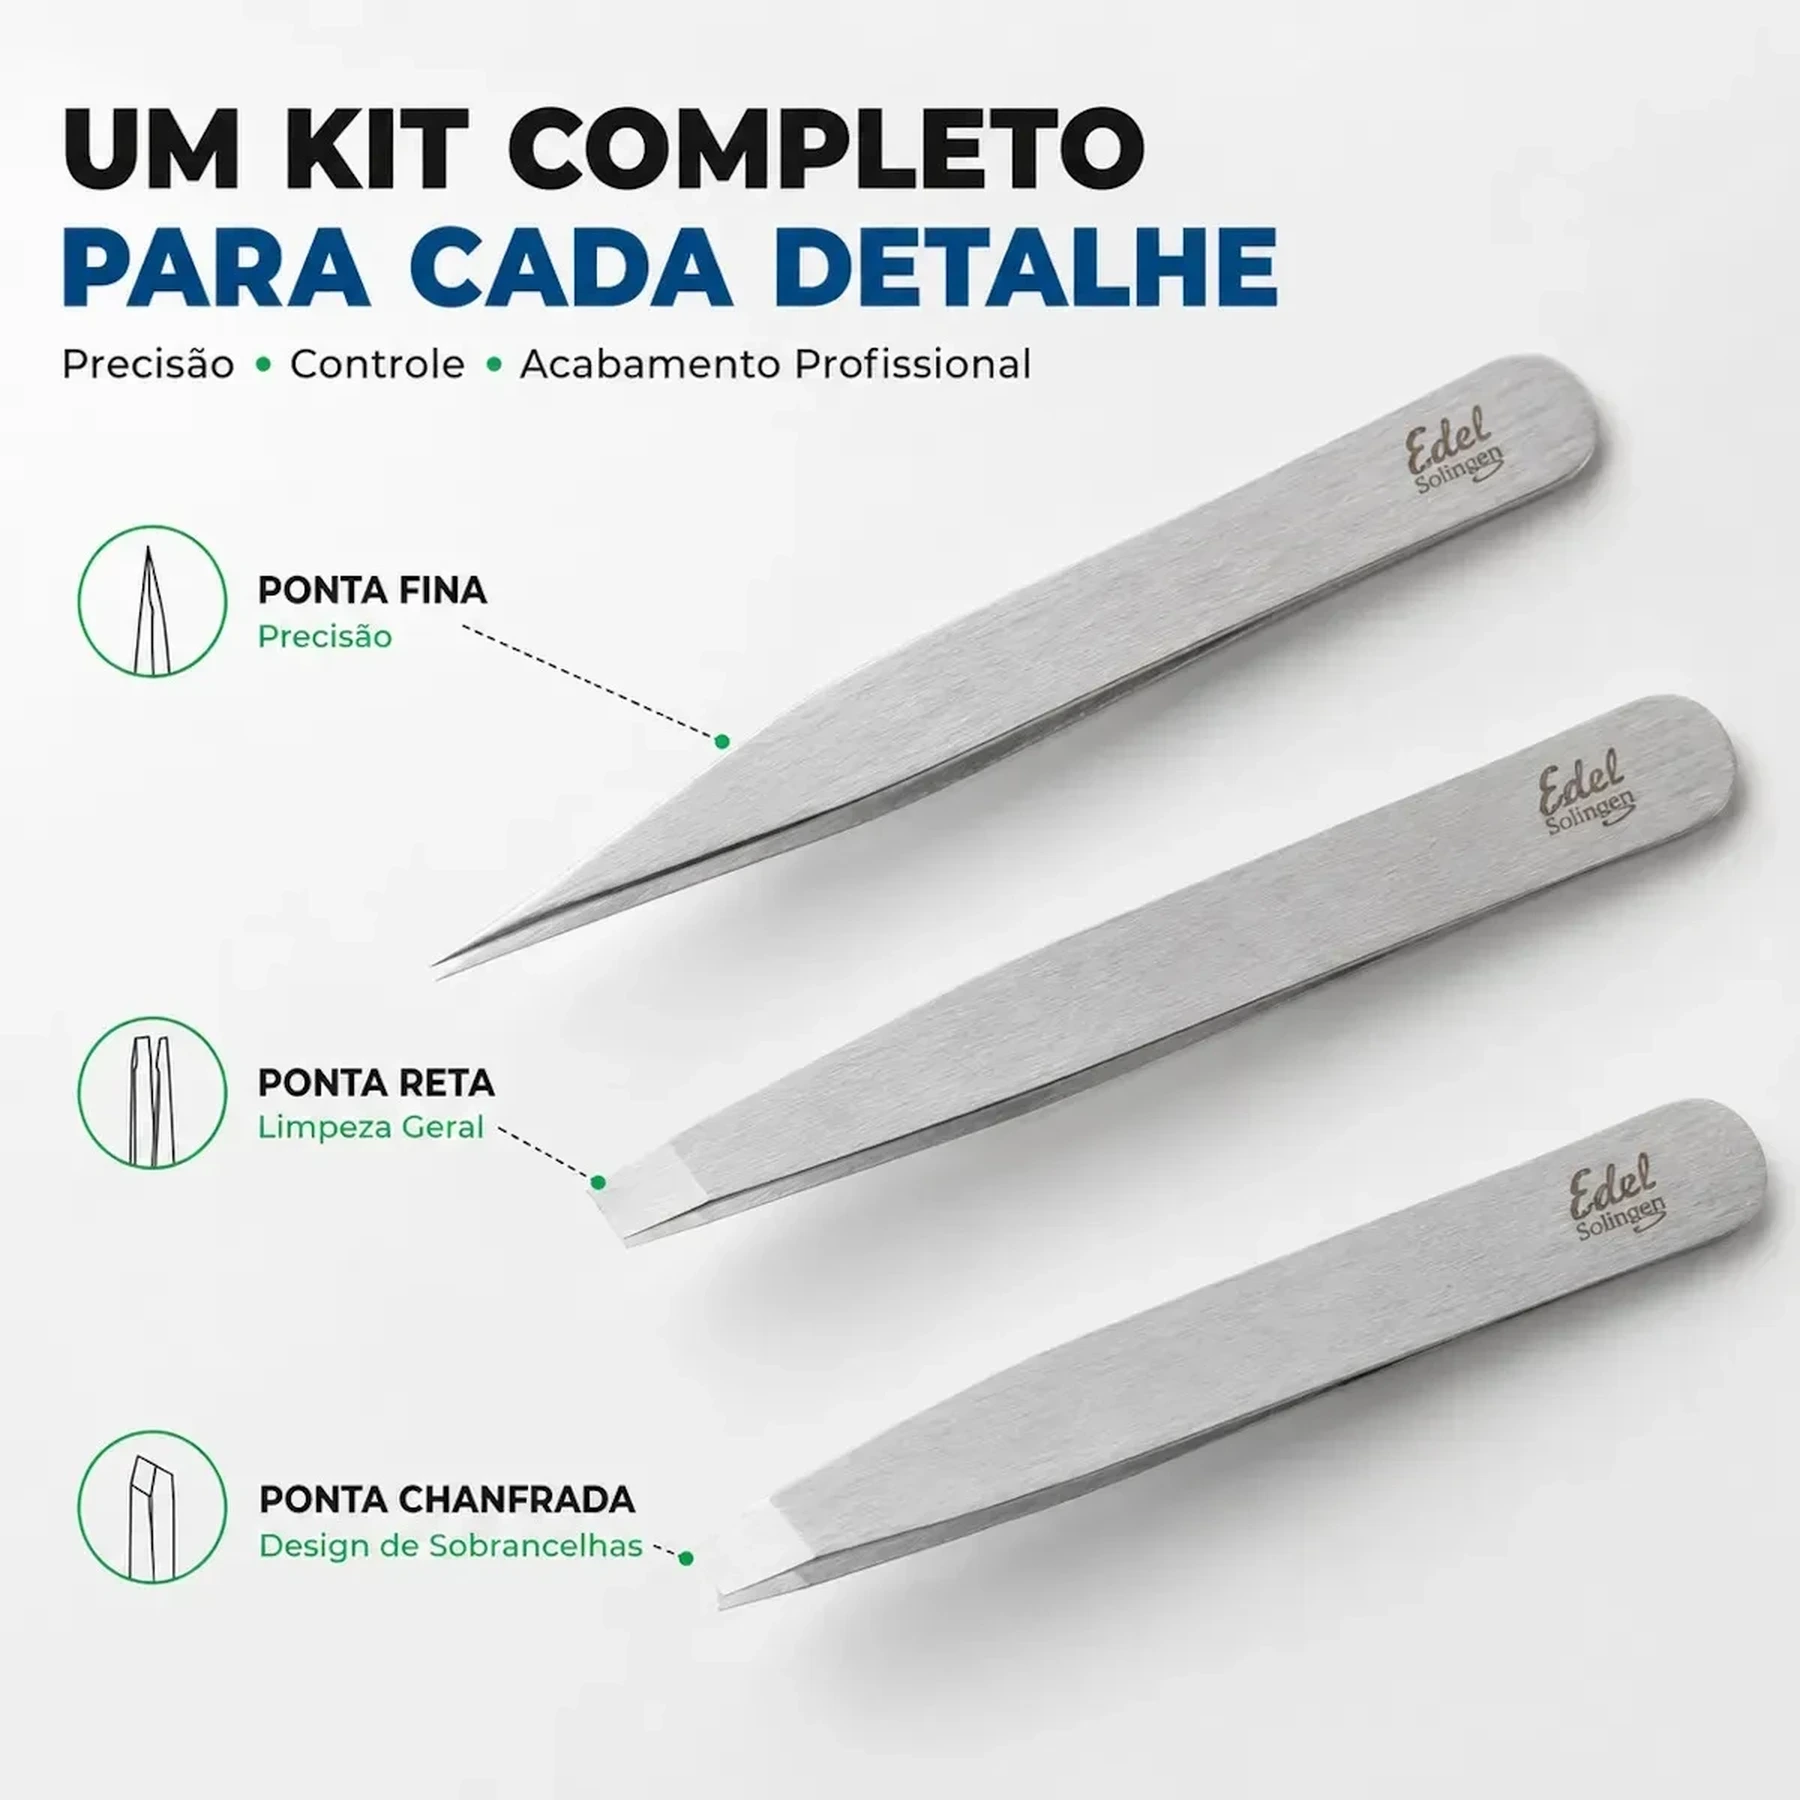
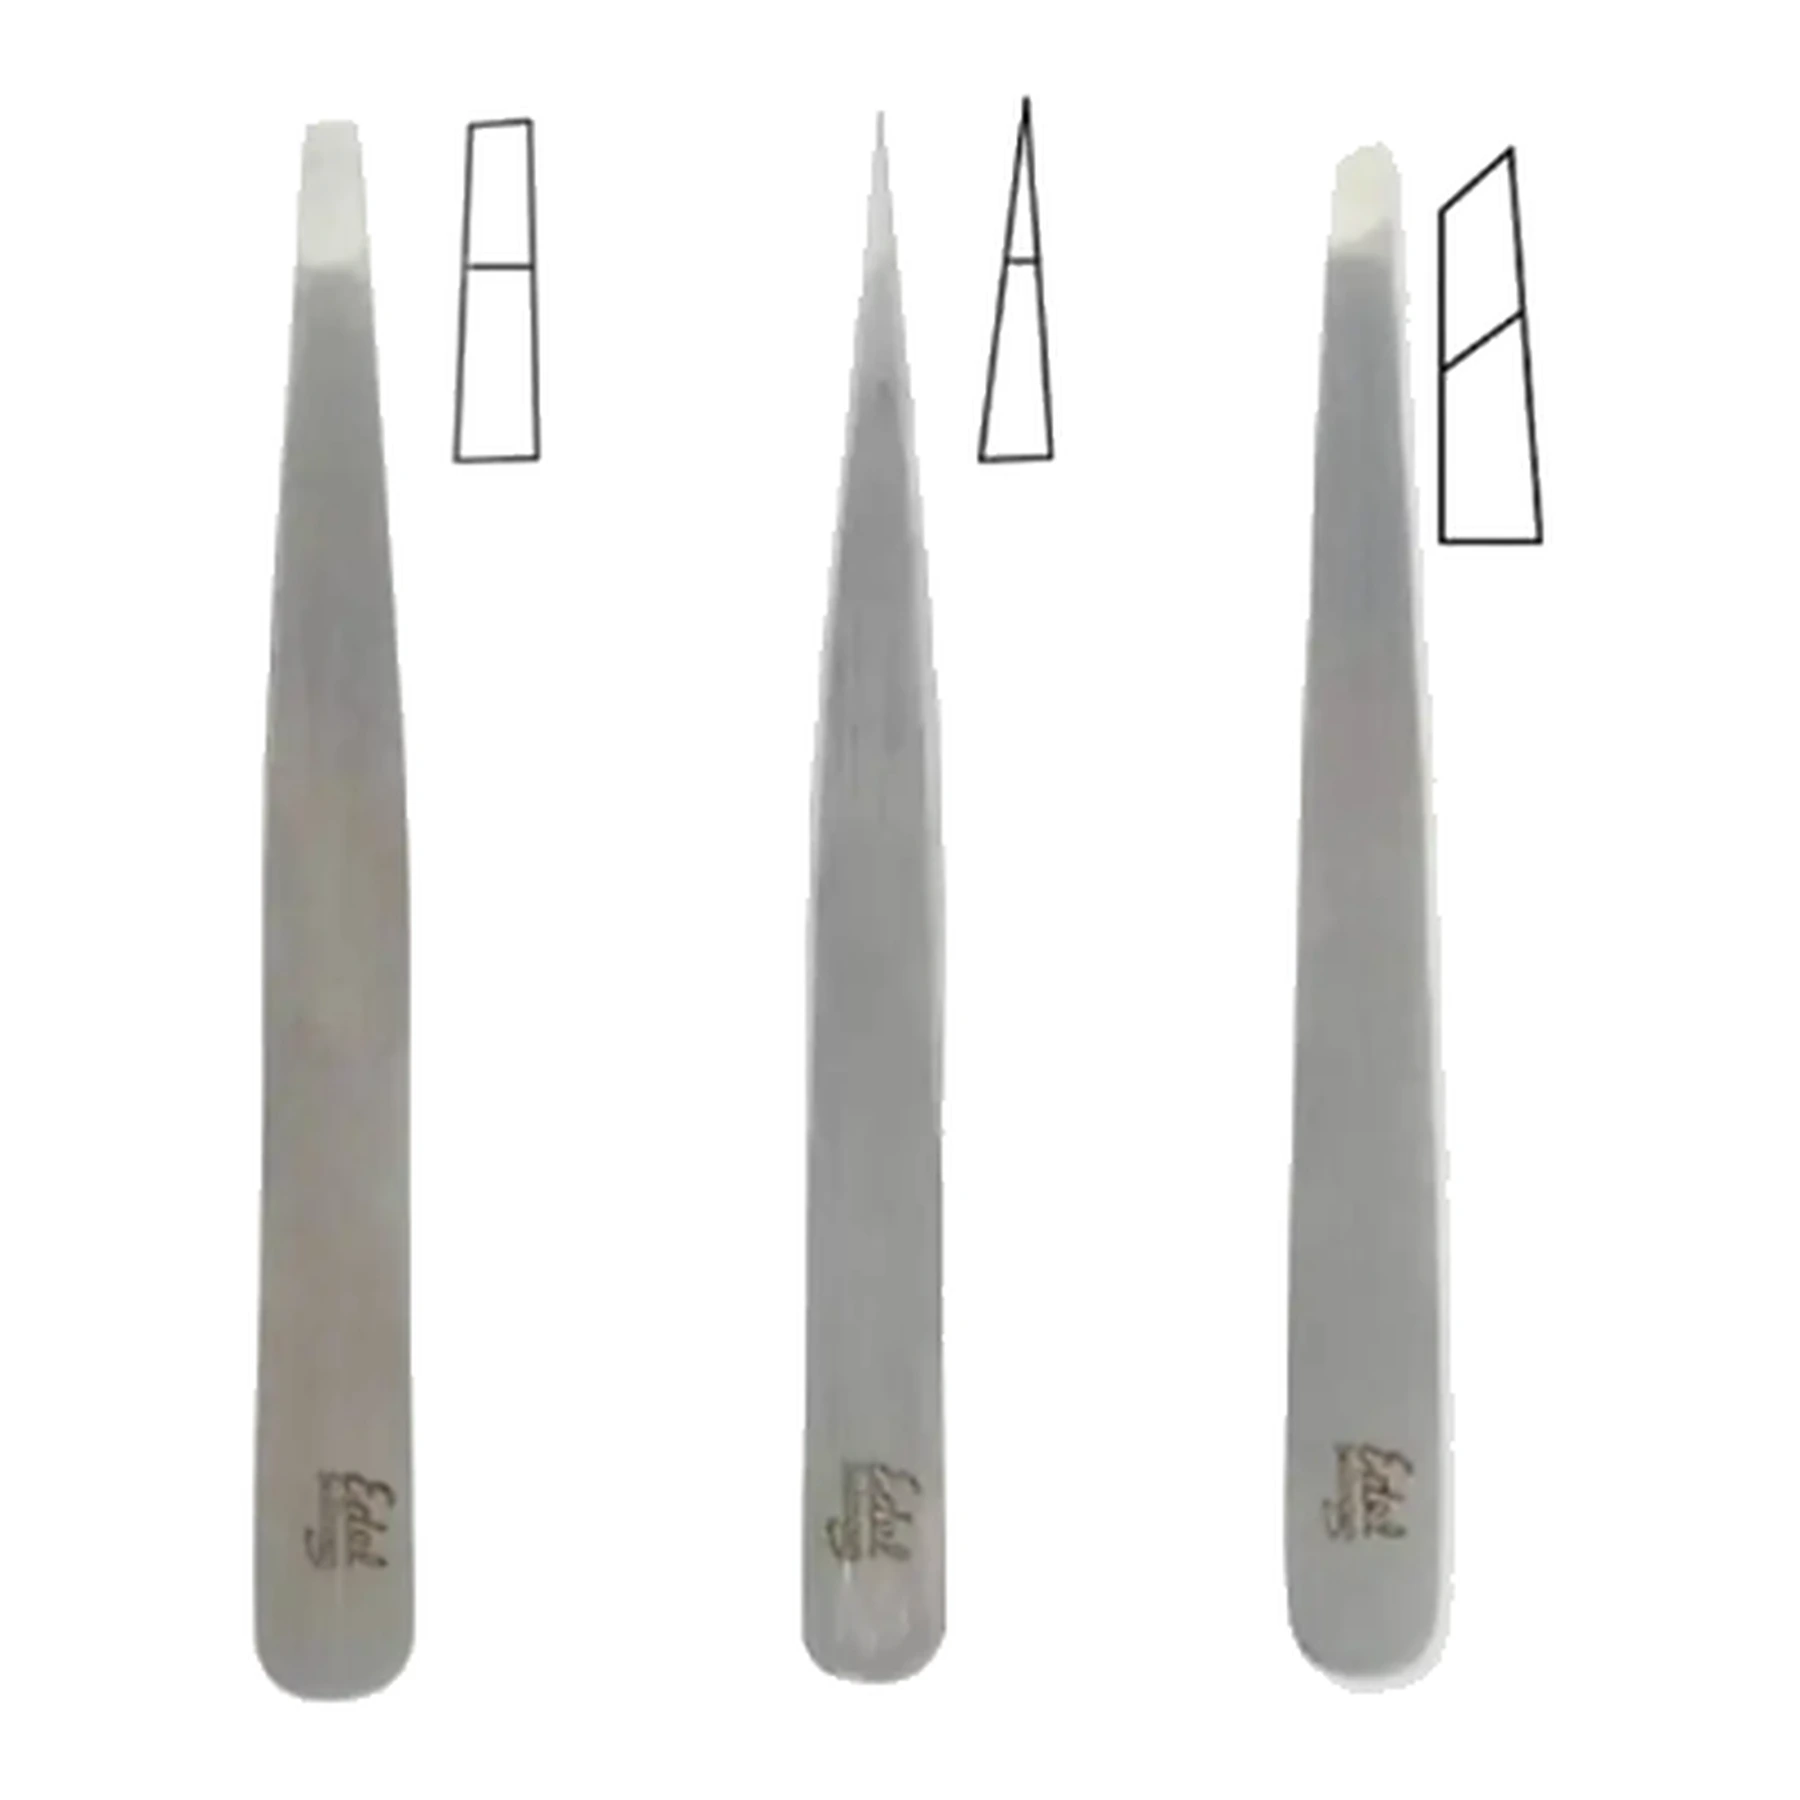
Corrige links de marketplace trocados e adiciona ML aos hidratantes labiais
Corrige a troca de links de Shopee entre o Kit 3 Pinças Laqueadas e o
Kit Pinça Depilação 9cm (estavam com o ID do anúncio um do outro).
Adiciona o link de Mercado Livre ao Milk Shake de Morango e ao
Chocomenta Subzero (hidratantes labiais), que antes só tinham um botão
de Shopee placeholder. Adiciona uma nova foto de capa (tipos de ponta)
ao Kit 3 Pinças Ponta Fina Sobrancelha, reordenando a galeria para
trazê-la como primeira imagem.

Claude-Session: https://claude.ai/code/session_01PUoiHjDweJQQzRfrXd1B8Y

diff --git a/src/data/products.ts b/src/data/products.ts
@@ -283,7 +283,12 @@ export const products: Product[] = [
     ],
     externalUrl: "#",
     isBestSeller: true,
-    buyButtonLabel: "Veja na Shopee",
+    marketplaceLinks: [
+      {
+        label: "Ver no Mercado Livre",
+        url: "https://produto.mercadolivre.com.br/MLB-7702055106-hidratante-labial-enaldinho-chocomenta-subzero-10g-_JM",
+      },
+    ],
   },
   {
     id: "19",
@@ -315,7 +320,12 @@ export const products: Product[] = [
     ],
     externalUrl: "#",
     isBestSeller: true,
-    buyButtonLabel: "Veja na Shopee",
+    marketplaceLinks: [
+      {
+        label: "Ver no Mercado Livre",
+        url: "https://produto.mercadolivre.com.br/MLB-7701912788-hidratante-labial-enaldinho-milk-shake-de-morango-10g-_JM",
+      },
+    ],
   },
   {
     id: "20",
@@ -533,7 +543,7 @@ export const products: Product[] = [
       },
       {
         label: "Ver na Shopee",
-        url: "https://shopee.com.br/product/1931210934/58219012276",
+        url: "https://shopee.com.br/product/1931210934/58269035891",
       },
     ],
   },
@@ -571,7 +581,7 @@ export const products: Product[] = [
       },
       {
         label: "Ver na Shopee",
-        url: "https://shopee.com.br/product/1931210934/58269035891",
+        url: "https://shopee.com.br/product/1931210934/58219012276",
       },
     ],
   },
@@ -597,6 +607,7 @@ export const products: Product[] = [
     image: "/images/products/28-kit-pinca-ponta-fina-edel-solingen-inox-sobrancelha.webp",
     images: [
       "/images/products/28-kit-pinca-ponta-fina-edel-solingen-inox-sobrancelha.webp",
+      "/images/products/28-kit-pinca-ponta-fina-edel-solingen-inox-sobrancelha-kit.webp",
       "/images/products/28-kit-pinca-ponta-fina-edel-solingen-inox-sobrancelha-pontas.webp",
       "/images/products/28-kit-pinca-ponta-fina-edel-solingen-inox-sobrancelha-detalhe.webp",
     ],
